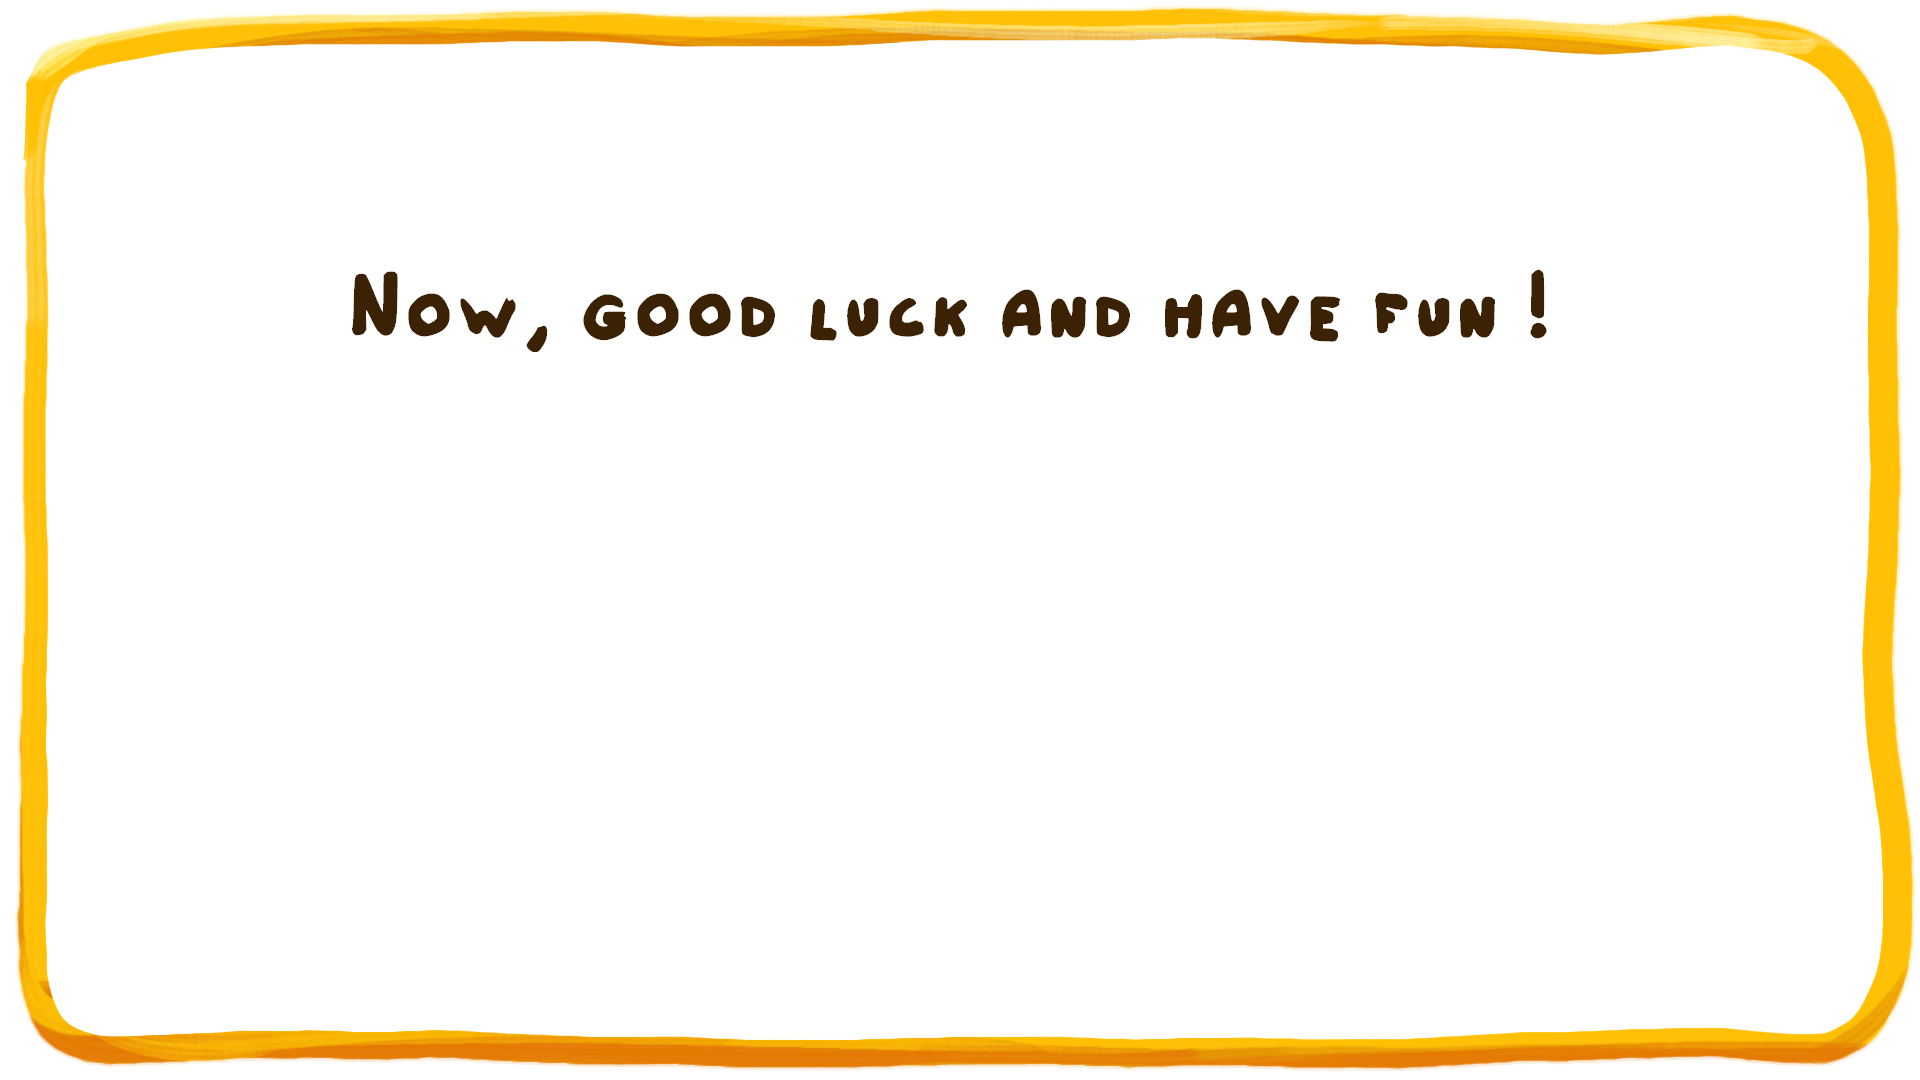
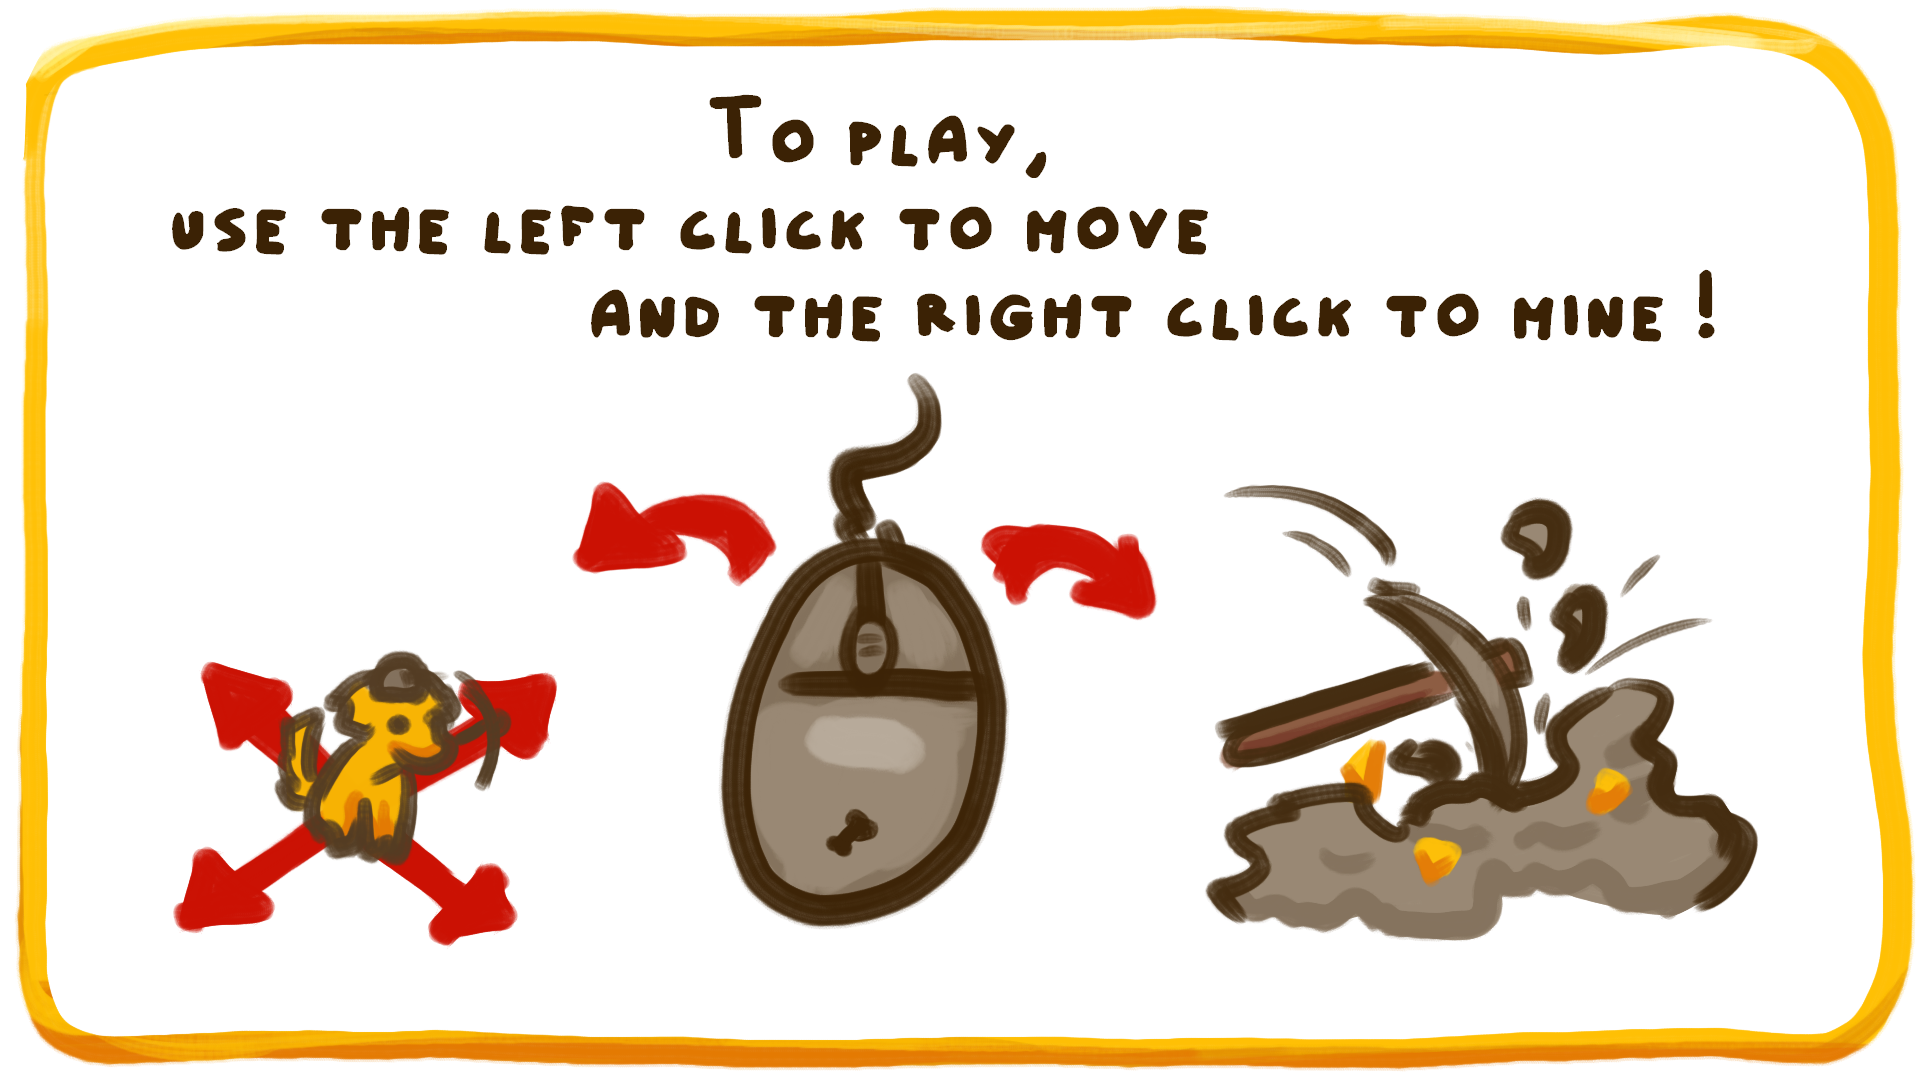
Replace credits + add new rule

diff --git a/Assets/Script/MainMenuScript.cs b/Assets/Script/MainMenuScript.cs
@@ -47,7 +47,7 @@ public class MainMenuScript : MonoBehaviour
         ruleStep += 1;
         loadRules();
         // Last step
-        if (ruleStep >= 4) {
+        if (ruleStep >= 5) {
             RulesMenu.transform.Find("NextButton").gameObject.SetActive(false);
             RulesMenu.transform.Find("PlayButton").gameObject.SetActive(true);
         }
